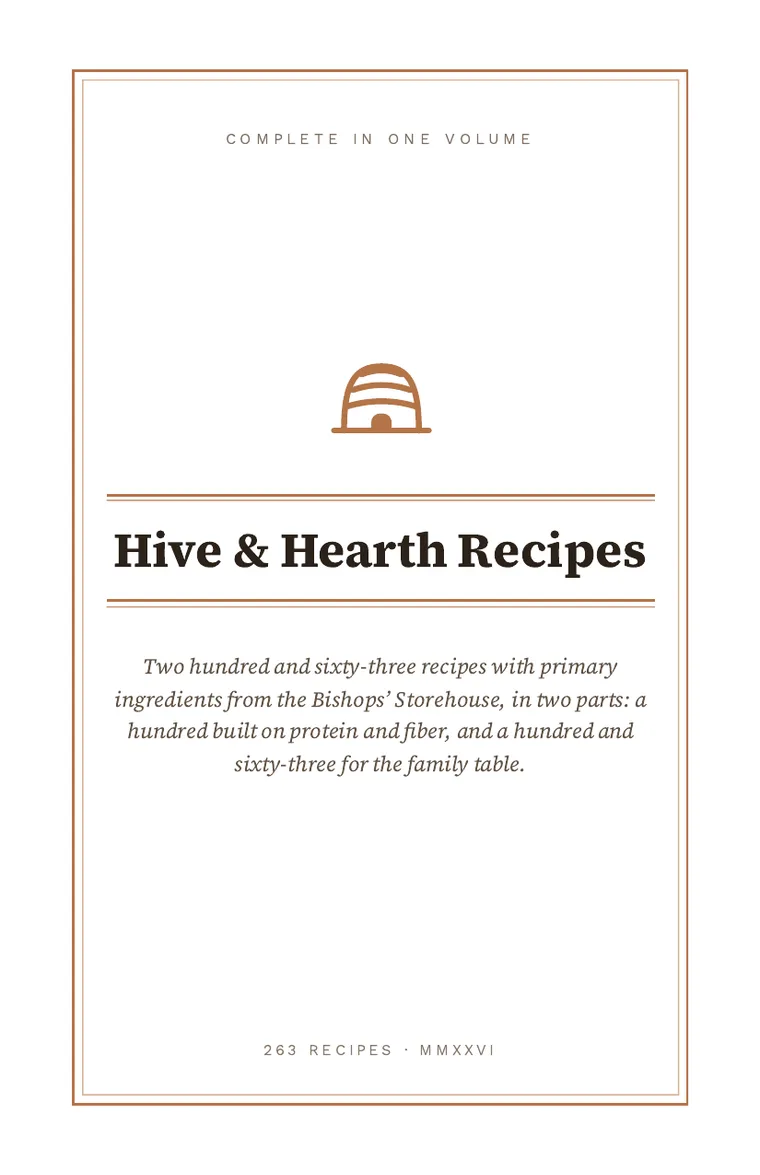
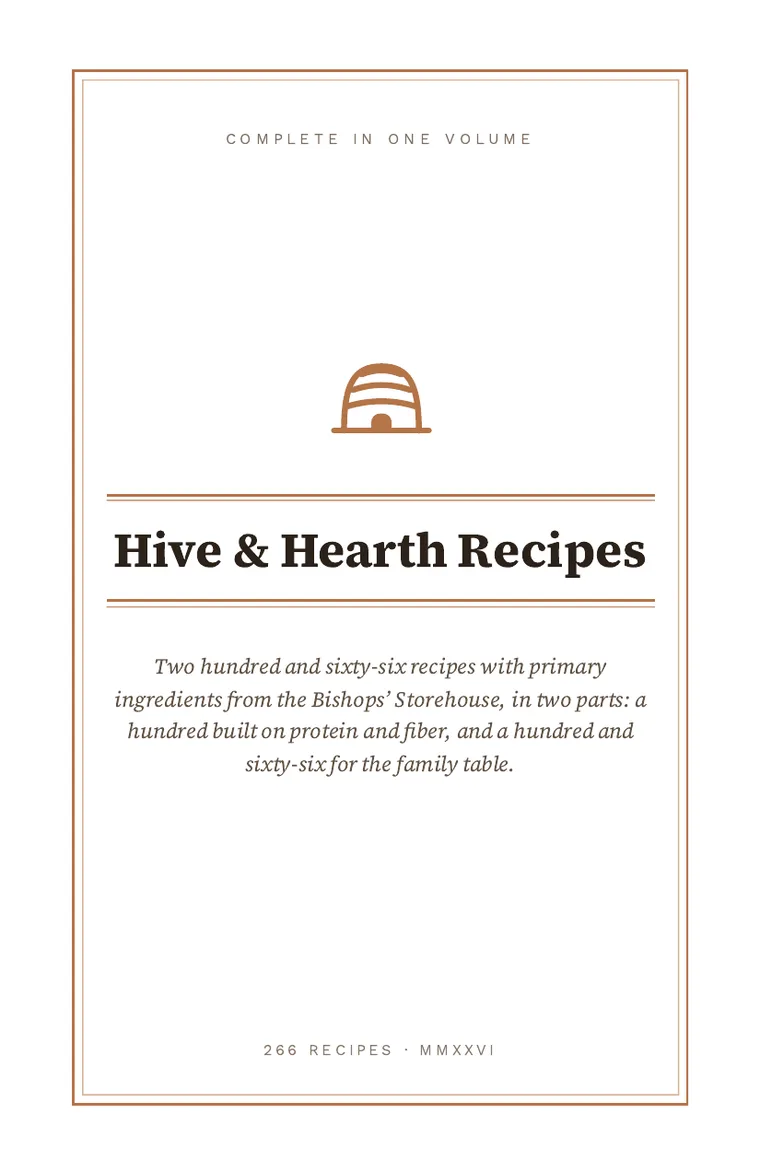
No black band, a sync that actually happens, and the whole story
Three things off the landing page, plus one the screenshots gave away.

The demo frames were stale. The cover in the first one advertised 263 recipes
on a page whose own text said 266, and nothing about it looked wrong — they are
photographs of a build, and a photograph does not complain when the thing it
photographed moves on. tools/build-demo.js now stamps what it shot (recipe
count and a hash of the PDF it lifted pages from) and tests/welcome.test.js
fails when the app has moved on without them. Verified failing by hand-editing
the stamp back to 263.

The phone had a near-black bezel, which put a dark band above and below the one
picture on the page that is otherwise all paper. It reads as a hole. The body is
bone now, in the same palette as everything else, with an earpiece and a home
bar so the space it does take is plainly a phone and not a margin somebody
forgot to trim. Underneath that was a real bug: `width:100%` on an absolutely
positioned image beats the `right`/`bottom` insets meant to size it, so the
screen was pinned to the top-left and spilled 8px out past the rounded corners
at the foot. Sized by its four insets now, and the pair are the same height.

"Then share a code" described the feature without showing it. The thing worth
showing is that it happens: the far phone says Local until the code reaches it.
So the block runs the story on a nine-second loop — the code lights, a spark
[…]

Changed region(s): [[0.1816, 0.5515, 0.8171, 0.5821], [0.3026, 0.6434, 0.6961, 0.674]]

diff --git a/welcome/index.html b/welcome/index.html
@@ -112,14 +112,36 @@ a { color: inherit; }
   box-shadow: 0 14px 30px oklch(0.26 0.02 60 / 0.18);
 }
 /* The bezel is the whole reason to draw a phone at all: without it the
-   screenshot reads as a narrow web page rather than as something in a hand. */
+   screenshot reads as a narrow web page rather than as something in a hand.
+   It used to be near-black, which put a dark band above and below a picture of
+   an app that is otherwise all paper — the one thing on this page that looked
+   like a hole. Three changes: the body is bone rather than ink, so it belongs
+   to the same palette as everything else; it carries an earpiece and a home
+   bar, so the space it does take is plainly a phone and not a margin; and the
+   screen is sized by its four insets instead of by width:100%, which was
+   pinning the image to the top-left and spilling it out past the rounded
+   corners at the bottom. */
 .demo-phone {
-  width: clamp(109px, 19.5vw, 229px); aspect-ratio: 390 / 844;
-  background: var(--ink); border-radius: clamp(9px, 1.6vw, 20px);
-  padding: clamp(4px, 0.7vw, 8px);
-  box-shadow: 0 14px 30px oklch(0.26 0.02 60 / 0.22);
+  --bz:  clamp(4px, 0.68vw, 8px);
+  --bzt: clamp(7px, 1.2vw, 14px);
+  --bzb: clamp(10px, 1.7vw, 20px);
+  width: clamp(112px, 19.2vw, 226px); aspect-ratio: 226 / 488;
+  background: linear-gradient(158deg, oklch(0.94 0.010 82), oklch(0.86 0.016 78));
+  border: 1px solid var(--line-firm);
+  border-radius: clamp(10px, 1.8vw, 22px);
+  padding: var(--bzt) var(--bz) var(--bzb);
+  box-shadow: 0 14px 30px oklch(0.26 0.02 60 / 0.20), inset 0 1px 0 #fff;
 }
-.demo-phone img { inset: clamp(4px, 0.7vw, 8px); border-radius: clamp(5px, 1vw, 13px); }
+.demo-phone img {
+  inset: var(--bzt) var(--bz) var(--bzb); width: auto; height: auto;
+  border-radius: clamp(3px, 0.7vw, 7px);
+}
+.demo-phone::before, .demo-phone::after {
+  content: ''; position: absolute; left: 50%; transform: translateX(-50%);
+  height: 3px; border-radius: 99px; background: var(--line-firm);
+}
+.demo-phone::before { top: calc(var(--bzt) / 2 - 1.5px); width: 22%; }
+.demo-phone::after  { bottom: calc(var(--bzb) / 2 - 1.5px); width: 30%; }
 
 /* Four frames on a seventeen-second loop: two seconds to cross over, a little
    over two to read. The phone runs half a beat behind the book so the pair
@@ -185,10 +207,21 @@ h2 + .sub {
   color: var(--ochre); font-weight: 600; display: block; margin-bottom: 9px;
 }
 
-/* ---- the code --------------------------------------------------------- */
+/* ---- the code ----------------------------------------------------------
+   This was two cards and a code sitting between them, which described the
+   feature without showing it. The thing worth showing is that it *happens*:
+   the second phone says Local until the code reaches it and then it says
+   Synced. So the block runs the story on a nine-second loop — the badge is
+   tapped, a spark crosses, the far phone changes state, it holds long enough
+   to read, and it resets.
+
+   All of it is CSS on one shared duration, which is the only reason four
+   independent animations stay in step. Anyone who has asked their system not
+   to animate things gets the end of the story instead of the middle: both
+   phones synced, no spark. */
 .code-demo {
   display: flex; align-items: center; justify-content: center; gap: 18px;
-  flex-wrap: wrap; margin: 32px 0 8px;
+  flex-wrap: wrap; margin: 32px 0 0;
 }
 .phone {
   border: 1.5px solid var(--line-firm); border-radius: 14px; padding: 18px 20px;
@@ -200,12 +233,67 @@ h2 + .sub {
   font-size: 13px; font-weight: 600; color: var(--green);
 }
 .phone .dot { width: 8px; height: 8px; border-radius: 50%; background: var(--green); }
+/* Both states occupy the same cell, so the card does not resize when the word
+   under it changes from five letters to six. */
+.badge-swap { display: inline-grid; margin-top: 10px; }
+.badge-swap > span {
+  grid-area: 1 / 1; display: inline-flex; align-items: center; gap: 7px;
+  justify-self: center; font-size: 13px; font-weight: 600;
+}
+.b-off { color: var(--muted); animation: swapoff var(--beat) infinite; }
+.b-on  { color: var(--green); animation: swapon  var(--beat) infinite; }
+.b-off .dot { background: var(--muted); }
+
+.link { position: relative; flex: 0 1 150px; min-width: 96px; height: 26px; }
+.link::before {
+  content: ''; position: absolute; top: 50%; left: 0; right: 8px; height: 1px;
+  background: var(--line-firm);
+}
+.link::after {
+  content: ''; position: absolute; top: 50%; right: 1px; width: 6px; height: 6px;
+  margin-top: -3.5px; transform: rotate(45deg);
+  border-top: 1.5px solid var(--line-firm); border-right: 1.5px solid var(--line-firm);
+}
+.spark {
+  position: absolute; top: 50%; left: 0; width: 9px; height: 9px; margin-top: -4.5px;
+  border-radius: 50%; background: var(--ochre); opacity: 0;
+  box-shadow: 0 0 0 4px oklch(0.62 0.10 55 / 0.16);
+  animation: travel var(--beat) infinite;
+}
+
 .codeword {
   font-family: ui-monospace, 'SF Mono', Menlo, monospace; font-size: 14px;
   letter-spacing: 0.04em; background: var(--paper); border: 1px solid var(--line);
   padding: 9px 14px; border-radius: 3px; white-space: nowrap;
+  transition: border-color .3s ease;
 }
-.link-arrow { color: var(--ochre); font-size: 22px; }
+.code-cap {
+  text-align: center; margin: 16px 0 4px; font-size: 13px; color: var(--muted);
+}
+.code-cap .codeword { display: inline-block; animation: lit var(--beat) infinite; }
+
+.code-demo, .code-cap { --beat: 9s; }
+/* The spark leaves as the code lights up and lands a beat before the far badge
+   turns over, which is the order it happens in on a real pair of phones. */
+@keyframes travel {
+  0%,  8%  { left: 0;             opacity: 0; transform: scale(0.3) }
+  14%      { left: 0;             opacity: 1; transform: scale(1) }
+  40%      { left: calc(100% - 9px); opacity: 1; transform: scale(1) }
+  47%, 100%{ left: calc(100% - 9px); opacity: 0; transform: scale(0.3) }
+}
+@keyframes swapoff { 0%, 42% { opacity: 1 } 48%, 92% { opacity: 0 } 98%, 100% { opacity: 1 } }
+@keyframes swapon  { 0%, 42% { opacity: 0 } 48%, 92% { opacity: 1 } 98%, 100% { opacity: 0 } }
+@keyframes lit {
+  0%, 6%   { border-color: var(--line) }
+  12%, 44% { border-color: var(--ochre) }
+  56%, 100%{ border-color: var(--line) }
+}
+@media (prefers-reduced-motion: reduce) {
+  .spark { display: none }
+  .b-off, .b-on, .code-cap .codeword { animation: none }
+  .b-off { opacity: 0 }
+  .b-on  { opacity: 1 }
+}
 
 /* ---- have them posted to you ------------------------------------------
    Sits under the free downloads, never above them. The PDFs are the offer;
@@ -390,13 +478,18 @@ footer a:hover { text-decoration: underline; }
     <p><strong>Then share a code.</strong> Everything saves on the phone you&rsquo;re using. Tap
     the badge, take the code it gives you, and type it on the other phone. That&rsquo;s it.</p>
 
-    <div class="code-demo">
+    <div class="code-demo" role="img"
+         aria-label="Your phone is synced. The code travels to their phone, and it changes from Local to Synced.">
       <div class="phone"><div class="who">Your phone</div>
         <div class="badge"><span class="dot"></span>Synced</div></div>
-      <div class="codeword">KETTLE-4827-ORCHARD</div>
+      <div class="link"><span class="spark"></span></div>
       <div class="phone"><div class="who">Their phone</div>
-        <div class="badge"><span class="dot"></span>Synced</div></div>
+        <div class="badge-swap">
+          <span class="b-off"><span class="dot"></span>Local</span>
+          <span class="b-on"><span class="dot"></span>Synced</span>
+        </div></div>
     </div>
+    <p class="code-cap"><span class="codeword">KETTLE-4827-ORCHARD</span></p>
 
     <p>Now your favorites, your weeks and your ticked-off groceries are the same on both
     phones. You can both edit at once. If one of you is offline it catches up when you&rsquo;re
@@ -467,14 +560,26 @@ footer a:hover { text-decoration: underline; }
     <div class="quote">&ldquo;I give not because I have not, but if I had I would give.&rdquo;</div>
     <div class="quote-src">King Benjamin &middot; Mosiah 4:24</div>
 
-    <p>I built this because my family needed it. We&rsquo;re using the bishops&rsquo; storehouse
-    right now, and I wanted a way to eat well from what it carries. It works for us. It costs
-    you nothing: the app is free, the books are free, and the code is open source.</p>
+    <p>We&rsquo;re using the bishops&rsquo; storehouse right now. That&rsquo;s not a comfortable
+    sentence to put on a public page, but it&rsquo;s the whole reason this exists. The order
+    sheet is a fixed list, and eating well off a fixed list takes more planning than most
+    weeks have room for.</p>
 
-    <p>I&rsquo;m also looking for ways to bring some money in, honestly. If this saved you time or
-    money and you&rsquo;re able to, anything you send goes straight to my family. But three verses
-    on from the one above: <em>&ldquo;it is not requisite that a man should run faster than he
-    has strength.&rdquo;</em> Please don&rsquo;t give out of your own need.</p>
+    <p>So I built it for us: recipes that lean on what&rsquo;s actually on that sheet, a week you
+    plan once, and a shopping list that only asks you to buy the things the storehouse
+    doesn&rsquo;t carry. My wife and I run it off one shared list across two phones. It worked
+    well enough that I typeset the whole collection, had it printed and bound at a copy shop,
+    and put it here.</p>
+
+    <p>It costs you nothing, and it isn&rsquo;t going to. The app is free, both books are free,
+    the source is public. That&rsquo;s not a strategy &mdash; it was built by somebody who
+    couldn&rsquo;t have paid for it either, and I&rsquo;d rather you had it than paid for it.</p>
+
+    <p>I&rsquo;m also trying to bring some money in, and I&rsquo;d rather say so plainly than
+    dress it up. If this saved you an afternoon or a trip and you&rsquo;re able to, anything you
+    send goes straight to my family and I&rsquo;m grateful for it. But three verses on from the
+    one above: <em>&ldquo;it is not requisite that a man should run faster than he has
+    strength.&rdquo;</em> Please don&rsquo;t give out of your own need. Take the book.</p>
 
     <div class="give">
       <div class="give-card free">
@@ -495,10 +600,18 @@ footer a:hover { text-decoration: underline; }
       </a>
     </div>
 
+    <!-- The two amounts again, as buttons. The cards above are links and behave
+         like links, but they read as a price list, and a price list is a thing
+         you look at rather than a thing you press. These are the same two
+         suggestions with a verb on them. -->
     <div class="cta" style="justify-content:flex-start">
-      <a class="btn btn-solid" href="https://buy.stripe.com/9B63cv4B2evagFmcwhbwk01">Give what you like</a>
-      <a class="btn btn-ghost" href="../">Just open the app</a>
+      <a class="btn btn-ghost give-btn" href="https://buy.stripe.com/9B63cv4B2evagFmcwhbwk01">Give $8</a>
+      <a class="btn btn-ghost give-btn" href="https://buy.stripe.com/9B63cv4B2evagFmcwhbwk01">Give $40</a>
+      <a class="btn btn-solid give-btn" href="https://buy.stripe.com/9B63cv4B2evagFmcwhbwk01">Give what you like</a>
     </div>
+    <p class="cta-note" style="text-align:left">All three open the same page, where you type the
+    amount &mdash; so the two above are suggestions, not tiers. Or
+    <a href="../" style="color:var(--ochre);font-weight:600">just open the app</a>.</p>
   </div>
 </section>
 

diff --git a/tests/welcome.test.js b/tests/welcome.test.js
@@ -55,6 +55,26 @@ module.exports = {
     t.ok('and every one of them loaded', demo.broken.length === 0, demo.broken.join(' '));
     t.ok('with one description per stack rather than eight', demo.described === 2, demo.described);
 
+    /* The frames are photographs of a build, and a photograph does not complain
+       when the thing it photographed moves on. The cover in the first frame
+       carries the recipe count; the page went out advertising 263 of them after
+       three were added, and nothing about it looked wrong. tools/build-demo.js
+       stamps what it photographed, and this is where that stamp is checked. */
+    const fs = require('fs'), path = require('path'), crypto = require('crypto');
+    const root = path.join(__dirname, '..');
+    const stamp = JSON.parse(fs.readFileSync(path.join(root, 'welcome', 'demo', 'stamp.json'), 'utf8'));
+    global.window = {};
+    delete require.cache[require.resolve(path.join(root, 'data', 'recipes.js'))];
+    require(path.join(root, 'data', 'recipes.js'));
+    const count = global.window.RECIPES.length;
+    const pdfHash = crypto.createHash('sha1')
+      .update(fs.readFileSync(path.join(root, 'print', 'Hive-and-Hearth-Recipes.pdf')))
+      .digest('hex').slice(0, 12);
+    t.ok('the demo frames were taken of the current build',
+      stamp.recipes === count && stamp.pdf === pdfHash,
+      stamp.recipes + ' recipes / ' + stamp.pdf + ' vs ' + count + ' / ' + pdfHash +
+      ' — run node tools/build-demo.js');
+
     /* Every way in. Somebody who reads to the end and wants to pay should not
        have to scroll back up to find out how. */
     const ways = await p.evaluate(() => {
@@ -95,10 +115,10 @@ module.exports = {
           links: root ? [...document.querySelectorAll(linkSel)].map((a) => a.getAttribute('href')) : [] };
       };
       return {
-        /* The paying links only. The ghost button beside "Give what you
-           like" says "Just open the app" and is rightly a relative link, so
-           scooping up every anchor in the section fails a block that is fine. */
-        give: block('.give', 'a.give-card, .give ~ .cta a.btn-solid'),
+        /* The paying links only, by class. The section also carries a
+           relative link to the app, and scooping up every anchor in it would
+           fail a block that is perfectly fine. */
+        give: block('.give', 'a.give-card, a.give-btn'),
         /* .post-order, not .post — the same card style is reused for the
            free one-book download, whose href is a local PDF and rightly is
            not a payment URL. Only the one that takes money is guarded. */

diff --git a/tools/build-demo.js b/tools/build-demo.js
@@ -79,6 +79,9 @@ function serve() {
   }
   fs.mkdirSync(OUT, { recursive: true });
   const tmp = fs.mkdtempSync(path.join(os.tmpdir(), 'demo-'));
+  global.window = {};
+  require(path.join(ROOT, 'data', 'recipes.js'));
+  const RECIPE_COUNT = global.window.RECIPES.length;
 
   // ---- the book ---------------------------------------------------------
   for (const p of PAGES) {
@@ -132,9 +135,21 @@ function serve() {
       .webp({ quality: 82 }).toFile(path.join(OUT, s.name + '.webp'));
   }
 
+  /* A stamp, because these frames rot silently and expensively. They are
+     photographs of a build; the build moves; the page goes on showing a cover
+     that advertises a recipe count from two commits ago, and nothing about the
+     page looks wrong. It is the same failure mode the rendered PDFs have, and
+     it gets the same treatment: record what was photographed, and let
+     tests/welcome.test.js fail when the app has moved on without them. */
+  fs.writeFileSync(path.join(OUT, 'stamp.json'), JSON.stringify({
+    recipes: RECIPE_COUNT,
+    pdf: require('crypto').createHash('sha1').update(fs.readFileSync(PDF)).digest('hex').slice(0, 12),
+  }, null, 2) + '\n');
+
   fs.rmSync(tmp, { recursive: true, force: true });
-  const total = fs.readdirSync(OUT).reduce((n, f) => n + fs.statSync(path.join(OUT, f)).size, 0);
-  console.log('wrote ' + fs.readdirSync(OUT).length + ' frames to welcome/demo  (' +
-    Math.round(total / 1024) + ' KB total)');
+  const frames = fs.readdirSync(OUT).filter((f) => f.endsWith('.webp'));
+  const total = frames.reduce((n, f) => n + fs.statSync(path.join(OUT, f)).size, 0);
+  console.log('wrote ' + frames.length + ' frames to welcome/demo  (' +
+    Math.round(total / 1024) + ' KB total, ' + RECIPE_COUNT + ' recipes)');
   console.log(PAGES.concat(SCREENS).map((x) => '  ' + x.name).join('\n'));
 })();
